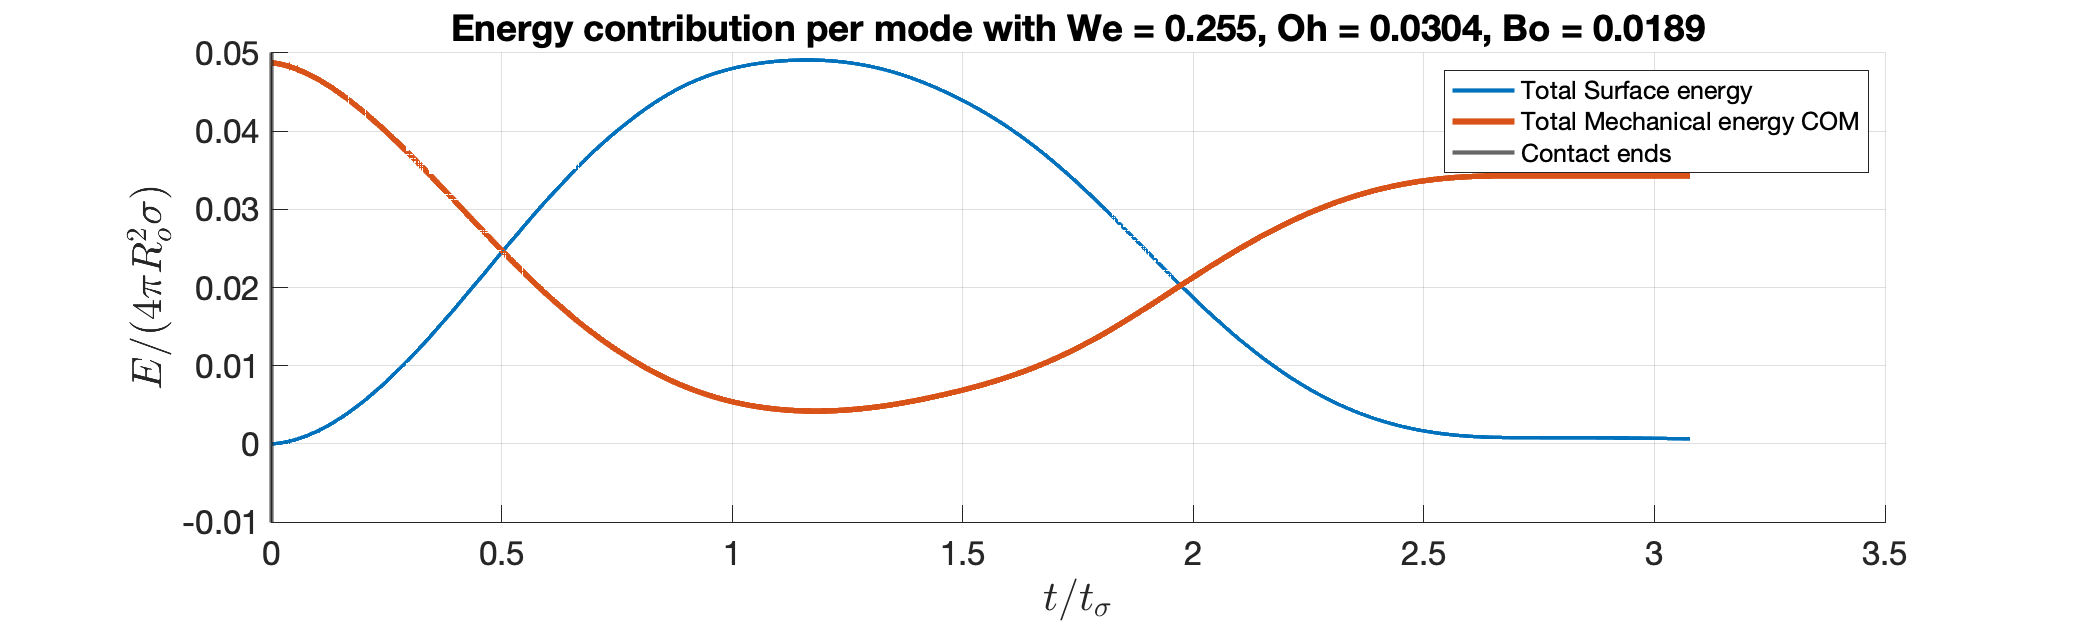
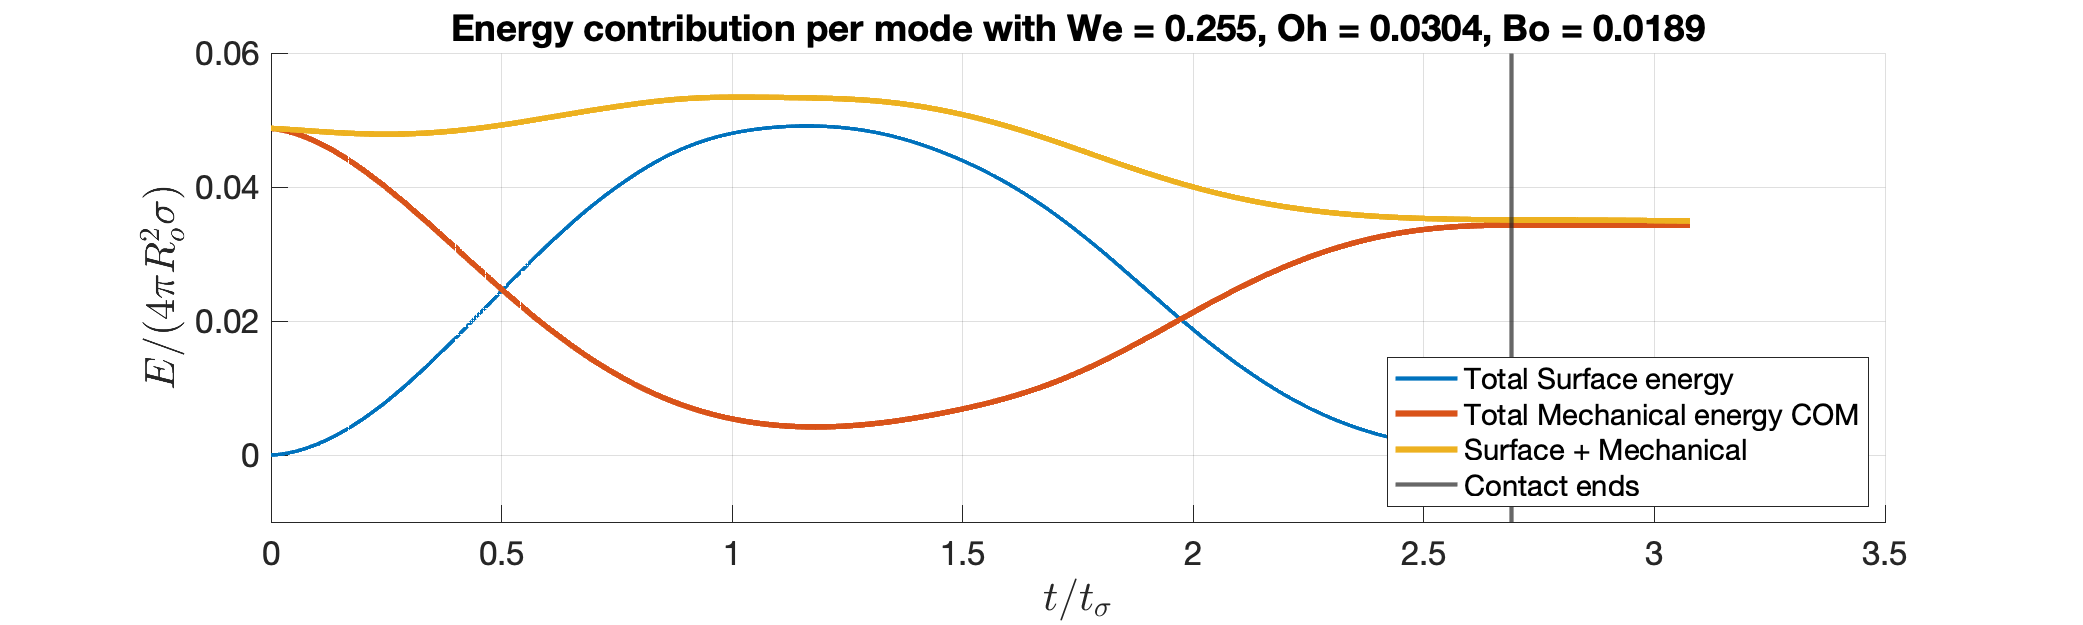
updated figures

diff --git a/matlab/1_code/energy_plotter.m b/matlab/1_code/energy_plotter.m
@@ -77,11 +77,12 @@ function energy_plotter(varargin)
     %A = (velocity_unit.^2/default_physical.initial_velocity.^2)/(2*pi/3);
     plot(times/time_unit, sum(deformation_energies(idxs, :), 1)/energy_unit, 'LineWidth',2);
     plot(times/time_unit, mechanical_energy/energy_unit, 'LineWidth', 3);
-    xline(times(cidx), 'LineWidth', 2);
+    plot(times/time_unit, (sum(deformation_energies(idxs, :), 1)+mechanical_energy)/energy_unit, 'LineWidth', 3);
+    xline(times(cidx)/time_unit, 'LineWidth', 2);
     grid on;
     % Only show a subset of 
     set(gca, 'FontSize', 16);
-    legend(["Total Surface energy", "Total Mechanical energy COM", "Contact ends"], 'FontSize', 12);
+    legend(["Total Surface energy", "Total Mechanical energy COM", "Surface + Mechanical", "Contact ends"], 'FontSize', 14, "Location", "SouthEastOutside");
     xlabel('$ t/t_\sigma $', 'Interpreter','Latex', 'FontSize', 20);
     ylabel('$ E/(4 \pi R_o^2 \sigma) $', 'Interpreter','Latex', 'FontSize', 20);
    
